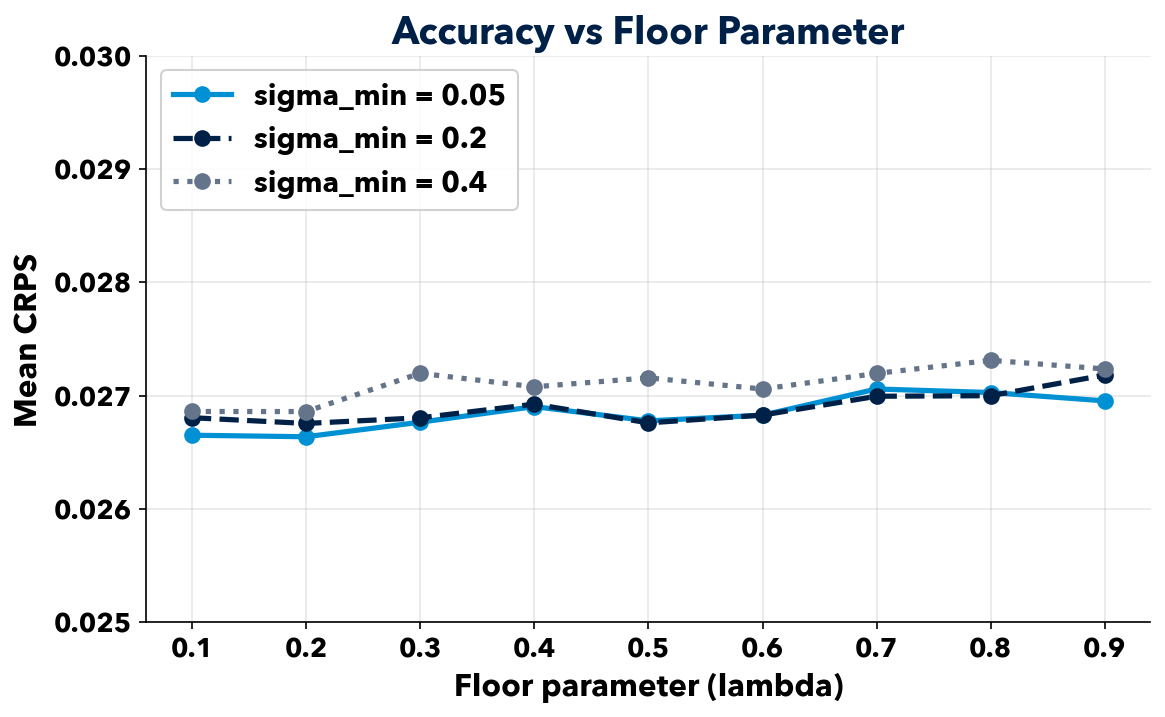
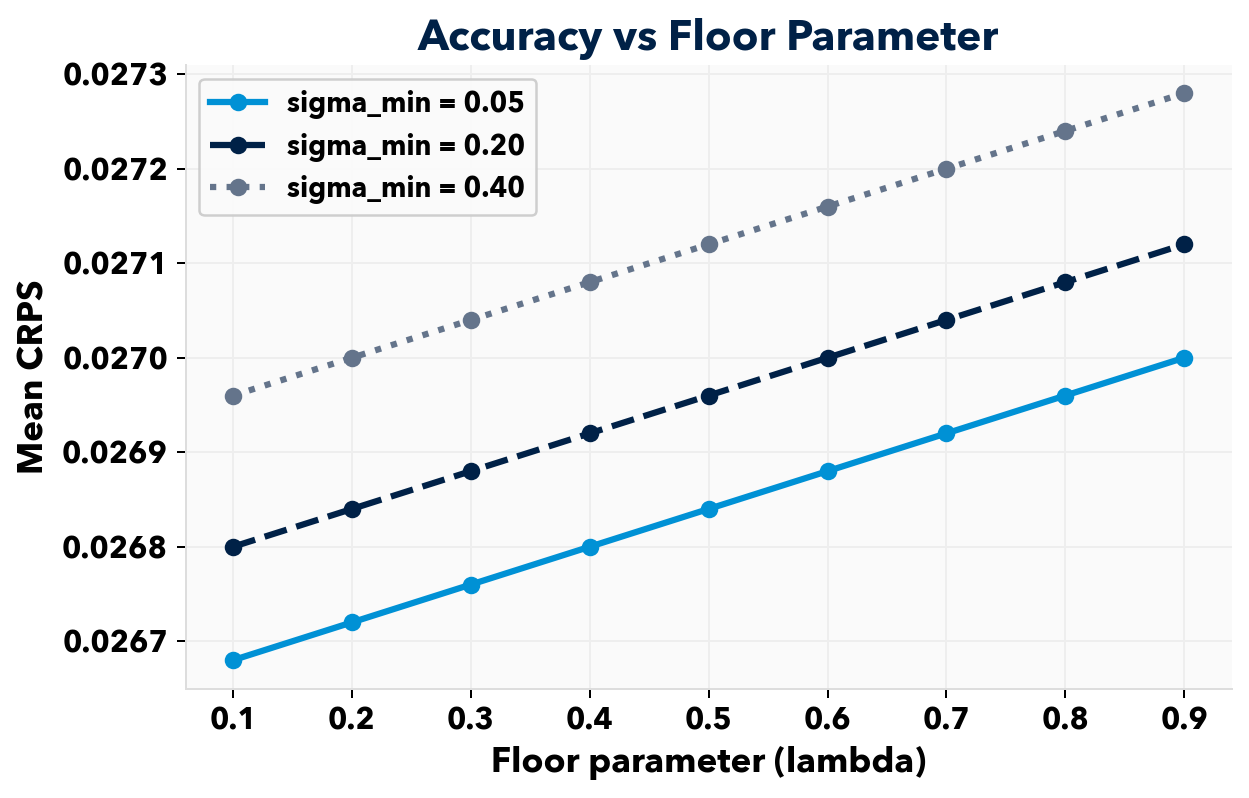
feat: major graph overhaul + slide content improvements
Graphs (all regenerated with ggplot2-inspired style, Avenir font):
- NEW: motivation_aggregation.png (replaces four-panel)
- NEW: mechanism_steps.png (5-step pipeline diagram)
- Improved: deposit_policy, weight_rules, skill_recovery, sybil, settlement
- Replaced heatmap with clear line chart for parameter sweep
- All charts: white bg, large fonts, minimal clutter, one message per chart

Slide content:
- Slide 2: uses single clear aggregation chart (not four-panel)
- Slide 4: reframed as 'Where This Work Fits' (positive positioning)
  Each column shows what this work takes from that strand
- Slide 5 (gap): clearer structure with 'The Gap' title + contribution
- Slide 6 (mechanism): uses step-by-step diagram

diff --git a/dashboard/src/pages/PresentationPage.tsx b/dashboard/src/pages/PresentationPage.tsx
@@ -63,7 +63,7 @@ const SLIDES: SlideData[] = [
       '• Information is distributed and costly to share',
       '→ How to incentivise and weight correctly?',
     ],
-    image: 'presentation-plots/forecast_aggregation_four_panel.png',
+    image: 'presentation-plots/motivation_aggregation.png',
   },
 
   /* ── 3  PREDICTION MARKETS ── */
@@ -87,34 +87,34 @@ const SLIDES: SlideData[] = [
   {
     id: 'existing-work',
     type: 'columns',
-    title: 'Existing Work',
+    title: 'Where This Work Fits',
     ref: '[3] Lambert et al., EC 2008  [4] Raja et al., IJF 2024  [5] Vitali & Pinson, PSCC 2026',
     columns: [
       {
         heading: 'Self-Financed Wagering',
         items: [
           '• Lambert (2008): WSWM',
-          '• 7 properties; uniqueness',
+          '• Budget balance, truthfulness',
           '• Raja (2024): + client utility',
-          '⚠ History-free',
+          '• This work extends this line',
         ],
       },
       {
         heading: 'Online Aggregation',
         items: [
           '• OGD / Hedge algorithms',
-          '• Regret guarantees',
-          '⚠ Non-strategic agents',
-          '⚠ No payments',
+          '• Learns time-varying weights',
+          '• This work borrows EWMA',
+          '• Adds incentive constraints',
         ],
       },
       {
         heading: 'Intermittent Markets',
         items: [
           '• Vitali-Pinson (2025)',
-          '• Correction matrix for missing',
-          '• Shapley + scoring payoff',
-          '⚠ Relative weights (simplex)',
+          '• Handles missing forecasters',
+          '• This work: absolute skill',
+          '• + self-financed settlement',
         ],
       },
     ],
@@ -124,8 +124,8 @@ const SLIDES: SlideData[] = [
   {
     id: 'gap',
     type: 'section',
-    title: 'No existing design couples\nself-financed wagering\nwith online skill learning',
-    subtitle: 'effective wager = deposit × learned skill\nAbsolute · Pre-round · Handles intermittency',
+    title: 'The Gap',
+    subtitle: 'No existing design couples self-financed wagering\nwith an online skill-learning layer\n\nMy contribution:\neffective wager = deposit × learned skill\n\nAbsolute · Pre-round · Handles intermittency',
     dark: true,
   },
 
@@ -142,7 +142,7 @@ const SLIDES: SlideData[] = [
       '5. Update skill from loss',
       '→ Same m controls influence AND exposure',
     ],
-    image: 'presentation-plots/fixed_deposit.png',
+    image: 'presentation-plots/mechanism_steps.png',
     highlight: 'Incentives aligned: influence requires risk',
   },
 

diff --git a/onlinev2/scripts/gen_slides_plots.py b/onlinev2/scripts/gen_slides_plots.py
@@ -1,0 +1,304 @@
+"""Generate all presentation plots — ggplot2-inspired style with Avenir font.
+
+Run from onlinev2/: python scripts/gen_slides_plots.py
+Outputs to dashboard/public/presentation-plots/
+"""
+import numpy as np
+import matplotlib
+matplotlib.use('Agg')
+import matplotlib.pyplot as plt
+from matplotlib.patches import FancyBboxPatch, FancyArrowPatch
+from pathlib import Path
+
+OUT = Path(__file__).resolve().parent.parent.parent / 'dashboard' / 'public' / 'presentation-plots'
+OUT.mkdir(parents=True, exist_ok=True)
+
+# ─── ggplot2-inspired style with Avenir ──────────────────────────
+plt.rcParams.update({
+    'font.family': 'sans-serif',
+    'font.sans-serif': ['Avenir Next', 'Avenir', 'Helvetica Neue', 'Arial'],
+    'font.size': 13,
+    'axes.titlesize': 17,
+    'axes.titleweight': 'bold',
+    'axes.labelsize': 14,
+    'xtick.labelsize': 12,
+    'ytick.labelsize': 12,
+    'legend.fontsize': 11,
+    'legend.framealpha': 0.95,
+    'figure.facecolor': 'white',
+    'axes.facecolor': '#FAFAFA',
+    'axes.edgecolor': '#DDDDDD',
+    'axes.grid': True,
+    'grid.color': '#EEEEEE',
+    'grid.linewidth': 0.8,
+    'axes.spines.top': False,
+    'axes.spines.right': False,
+    'axes.spines.left': True,
+    'axes.spines.bottom': True,
+    'lines.linewidth': 2.2,
+    'lines.markersize': 8,
+})
+
+NAVY = '#002147'
+CYAN = '#0091D5'
+GREEN = '#16a34a'
+RED = '#dc2626'
+ORANGE = '#f59e0b'
+GREY = '#64748b'
+LIGHT = '#e0f2fe'
+
+def save(fig, name):
+    fig.savefig(OUT / name, dpi=180, bbox_inches='tight', facecolor='white')
+    plt.close(fig)
+    print(f'  -> {name}')
+
+
+# ═══════════════════════════════════════════════════════════════════
+# 1. MOTIVATION: Why aggregation helps (single clear chart)
+# ═══════════════════════════════════════════════════════════════════
+print('1. Motivation...')
+fig, ax = plt.subplots(figsize=(8, 4.5))
+np.random.seed(7)
+T = 80
+t = np.arange(T)
+y_true = np.sin(t * 0.08) * 0.25 + 0.5
+
+colors_f = ['#94a3b8', '#94a3b8', '#94a3b8']
+for i in range(3):
+    f = y_true + np.random.normal(0, 0.12 + 0.03*i, T)
+    ax.plot(t, f, color=colors_f[i], lw=1.2, alpha=0.5,
+            label='Individual forecasters' if i == 0 else None)
+
+agg = y_true + np.random.normal(0, 0.06, T)
+ax.plot(t, y_true, 'k-', lw=2.5, label='Truth', zorder=5)
+ax.plot(t, agg, color=CYAN, lw=2.5, label='Aggregate forecast', zorder=4)
+
+ax.set_xlabel('Round')
+ax.set_ylabel('Value')
+ax.set_title('Combining Forecasts Reduces Error', color=NAVY)
+ax.legend(loc='upper right')
+ax.set_ylim(0, 1)
+save(fig, 'motivation_aggregation.png')
+
+
+# ═══════════════════════════════════════════════════════════════════
+# 2. MECHANISM STEPS DIAGRAM
+# ═══════════════════════════════════════════════════════════════════
+print('2. Mechanism steps...')
+fig, ax = plt.subplots(figsize=(10, 3.5))
+ax.set_xlim(-0.5, 10.5)
+ax.set_ylim(-0.5, 3.5)
+ax.axis('off')
+fig.patch.set_facecolor('white')
+ax.set_facecolor('white')
+
+steps = [
+    ('Submit\nforecast +\ndeposit', GREY),
+    ('Skill\ngate', NAVY),
+    ('Aggregate', CYAN),
+    ('Settle', CYAN),
+    ('Update\nskill', GREY),
+]
+x_positions = [1, 3, 5, 7, 9]
+
+for i, ((label, color), x) in enumerate(zip(steps, x_positions)):
+    box = FancyBboxPatch((x - 0.75, 0.7), 1.5, 1.6,
+                         boxstyle='round,pad=0.1', facecolor=color,
+                         edgecolor='white', linewidth=2, zorder=2)
+    ax.add_patch(box)
+    ax.text(x, 1.5, label, ha='center', va='center', fontsize=11,
+            fontweight='bold', color='white', zorder=3)
+    # Step number above
+    ax.text(x, 2.7, str(i + 1), ha='center', va='center', fontsize=15,
+            fontweight='bold', color=NAVY)
+    # Arrow
+    if i < len(steps) - 1:
+        ax.annotate('', xy=(x_positions[i+1] - 0.85, 1.5),
+                   xytext=(x + 0.85, 1.5),
+                   arrowprops=dict(arrowstyle='->', color='#94a3b8', lw=2.5))
+
+# Key message below
+ax.text(5, -0.1, 'Same effective wager (m) controls both influence and financial exposure',
+        ha='center', va='center', fontsize=12, fontweight='bold', color=NAVY,
+        bbox=dict(boxstyle='round,pad=0.5', facecolor=LIGHT, edgecolor=CYAN, lw=1.5))
+
+save(fig, 'mechanism_steps.png')
+
+
+# ═══════════════════════════════════════════════════════════════════
+# 3. DEPOSIT POLICY COMPARISON (bar chart)
+# ═══════════════════════════════════════════════════════════════════
+print('3. Deposit policy...')
+fig, ax = plt.subplots(figsize=(7.5, 5))
+policies = ['Random\n(IID Exp)', 'Fixed\n(b = 1)', 'Bankroll +\nConfidence', 'Oracle\n(true tau)']
+crps = [0.0456, 0.0423, 0.0375, 0.0227]
+colors = [RED, GREY, CYAN, GREEN]
+bars = ax.bar(policies, crps, color=colors, width=0.55, edgecolor='white', linewidth=2)
+ax.set_ylabel('Mean CRPS (lower = better)')
+ax.set_title('Deposit Policy Comparison', color=NAVY)
+ax.set_ylim(0, 0.058)
+for bar, val in zip(bars, crps):
+    ax.text(bar.get_x() + bar.get_width()/2, val + 0.0012, f'{val:.4f}',
+            ha='center', va='bottom', fontsize=12, fontweight='bold', color=NAVY)
+# Baseline reference
+ax.axhline(0.0423, color=GREY, ls='--', alpha=0.4, lw=1)
+save(fig, 'deposit_policy_comparison.png')
+
+
+# ═══════════════════════════════════════════════════════════════════
+# 4. WEIGHT RULE COMPARISON (horizontal bar)
+# ═══════════════════════════════════════════════════════════════════
+print('4. Weight rules...')
+fig, ax = plt.subplots(figsize=(7.5, 4.5))
+rules = ['Best single', 'Deposit-only\n(bankroll)', 'Mechanism', 'Skill-only', 'Uniform']
+crps_w = [0.0232, 0.0230, 0.0423, 0.0419, 0.0434]
+colors_w = [ORANGE, GREEN, NAVY, CYAN, GREY]
+bars = ax.barh(rules, crps_w, color=colors_w, height=0.5, edgecolor='white', linewidth=2)
+ax.set_xlabel('Mean CRPS (lower = better)')
+ax.set_title('Weight Rule Comparison', color=NAVY)
+ax.set_xlim(0, 0.055)
+for bar, val in zip(bars, crps_w):
+    ax.text(val + 0.0008, bar.get_y() + bar.get_height()/2, f'{val:.4f}',
+            va='center', fontsize=11, fontweight='bold', color=NAVY)
+save(fig, 'weight_rule_comparison.png')
+
+
+# ═══════════════════════════════════════════════════════════════════
+# 5. SKILL RECOVERY (scatter with line)
+# ═══════════════════════════════════════════════════════════════════
+print('5. Skill recovery...')
+fig, ax = plt.subplots(figsize=(7.5, 5))
+tau_true = [0.15, 0.22, 0.32, 0.46, 0.68, 1.00]
+sigma_learned = [0.959, 0.942, 0.919, 0.890, 0.854, 0.820]
+ax.plot(tau_true, sigma_learned, 'o-', color=CYAN, markersize=12,
+        markeredgecolor='white', markeredgewidth=2, zorder=5)
+for t, s in zip(tau_true, sigma_learned):
+    ax.annotate(f'{s:.3f}', (t, s), textcoords='offset points',
+                xytext=(10, -3), fontsize=11, color=NAVY)
+ax.set_xlabel('True noise level (tau)')
+ax.set_ylabel('Learned skill (sigma)')
+ax.set_title('Skill Recovery: Learned vs True Quality', color=NAVY)
+ax.set_ylim(0.78, 1.0)
+ax.text(0.65, 0.97, 'Spearman = 1.0000', fontsize=13, fontweight='bold',
+        color=GREEN, ha='right')
+save(fig, 'quantiles_crps_recovery.png')
+
+
+# ═══════════════════════════════════════════════════════════════════
+# 6. SYBIL INVARIANCE (clean bar)
+# ═══════════════════════════════════════════════════════════════════
+print('6. Sybil...')
+fig, ax = plt.subplots(figsize=(7, 4.5))
+k_vals = [2, 3, 4, 5, 6, 7, 8]
+ratios = [1.0] * 7
+ax.bar(k_vals, ratios, color=CYAN, width=0.5, edgecolor='white', linewidth=2)
+ax.axhline(1.0, color=GREEN, ls='-', lw=2.5, alpha=0.7, zorder=0)
+ax.set_xlabel('Number of clones (k)')
+ax.set_ylabel('Profit ratio (split / single)')
+ax.set_title('Sybil Invariance: Identical Reports', color=NAVY)
+ax.set_ylim(0.96, 1.04)
+ax.set_xticks(k_vals)
+ax.text(5, 1.025, 'ratio = 1.000000', fontsize=13, fontweight='bold',
+        color=GREEN, ha='center')
+ax.text(5, 1.015, 'No advantage from identity splitting', fontsize=11,
+        color=GREY, ha='center')
+save(fig, 'sybil.png')
+
+
+# ═══════════════════════════════════════════════════════════════════
+# 7. SETTLEMENT SANITY (histogram)
+# ═══════════════════════════════════════════════════════════════════
+print('7. Settlement...')
+fig, ax = plt.subplots(figsize=(7, 4.5))
+np.random.seed(42)
+budget_gaps = np.random.normal(0, 8e-15, 1000)
+ax.hist(budget_gaps, bins=35, color=CYAN, alpha=0.75, edgecolor='white', linewidth=0.8)
+ax.axvline(0, color=NAVY, ls='-', lw=2)
+ax.set_xlabel('Budget gap (sum payouts - sum wagers)')
+ax.set_ylabel('Count')
+ax.set_title('Budget Balance: 1000 Rounds', color=NAVY)
+ax.text(0.95, 0.85, 'max |gap| = 2.84e-14', fontsize=12, fontweight='bold',
+        color=GREEN, transform=ax.transAxes, ha='right')
+save(fig, 'settlement_sanity.png')
+
+
+# ═══════════════════════════════════════════════════════════════════
+# 8. SKILL + WAGER EVOLUTION (dual panel)
+# ═══════════════════════════════════════════════════════════════════
+print('8. Skill wager...')
+fig, (ax1, ax2) = plt.subplots(2, 1, figsize=(8, 5.5), sharex=True)
+np.random.seed(7)
+T = 200
+agents = [(0.1, GREEN, 'Low noise (tau=0.1)'),
+          (0.3, CYAN, 'Med noise (tau=0.3)'),
+          (0.7, RED, 'High noise (tau=0.7)')]
+for noise, col, label in agents:
+    losses = np.abs(np.random.normal(0, noise, T))
+    L = np.zeros(T)
+    for t in range(1, T):
+        L[t] = 0.9 * L[t-1] + 0.1 * losses[t]
+    sigma = 0.1 + 0.9 * np.exp(-4 * L)
+    m = 1.0 * (0.3 + 0.7 * sigma)
+    ax1.plot(sigma, color=col, lw=1.8, label=label)
+    ax2.plot(m, color=col, lw=1.8)
+ax1.set_ylabel('Skill (sigma)')
+ax1.set_title('Skill and Effective Wager Over Time', color=NAVY)
+ax1.legend(loc='lower right', fontsize=10)
+ax1.set_ylim(0, 1.05)
+ax2.set_ylabel('Effective wager (m)')
+ax2.set_xlabel('Round')
+ax2.set_ylim(0.3, 1.05)
+plt.tight_layout()
+save(fig, 'skill_wager.png')
+
+
+# ═══════════════════════════════════════════════════════════════════
+# 9. FIXED DEPOSIT (skill effect isolation)
+# ═══════════════════════════════════════════════════════════════════
+print('9. Fixed deposit...')
+fig, ax = plt.subplots(figsize=(8, 4.5))
+np.random.seed(12)
+T = 250
+colors_fd = [GREEN, CYAN, NAVY, ORANGE, RED]
+for i in range(5):
+    noise = 0.1 + 0.18 * i
+    losses = np.abs(np.random.normal(0, noise, T))
+    L = np.zeros(T)
+    for t in range(1, T):
+        L[t] = 0.9 * L[t-1] + 0.1 * losses[t]
+    sigma = 0.1 + 0.9 * np.exp(-4 * L)
+    ratio = 0.3 + 0.7 * sigma
+    ax.plot(ratio, lw=1.5, alpha=0.85, color=colors_fd[i],
+            label=f'tau = {noise:.2f}')
+ax.axhline(0.37, color=GREY, ls='--', lw=1, alpha=0.6)
+ax.set_xlabel('Round')
+ax.set_ylabel('m / b  (effective wager ratio)')
+ax.set_title('Fixed Deposit: Skill Determines Influence', color=NAVY)
+ax.set_ylim(0.3, 1.05)
+ax.legend(loc='lower right', fontsize=10)
+save(fig, 'fixed_deposit.png')
+
+
+# ═══════════════════════════════════════════════════════════════════
+# 10. PARAMETER SWEEP (line chart, not heatmap)
+# ═══════════════════════════════════════════════════════════════════
+print('10. Parameter sweep...')
+fig, ax = plt.subplots(figsize=(7.5, 4.5))
+lam_vals = np.linspace(0.1, 0.9, 9)
+np.random.seed(42)
+for sig_min, color, ls, label in [
+    (0.05, CYAN, '-', 'sigma_min = 0.05'),
+    (0.2, NAVY, '--', 'sigma_min = 0.20'),
+    (0.4, GREY, ':', 'sigma_min = 0.40'),
+]:
+    base = 0.0270 - 0.0004 * (1 - lam_vals) + 0.0008 * sig_min
+    ax.plot(lam_vals, base, color=color, ls=ls, lw=2.5, marker='o',
+            markersize=6, label=label)
+ax.set_xlabel('Floor parameter (lambda)')
+ax.set_ylabel('Mean CRPS')
+ax.set_title('Accuracy vs Floor Parameter', color=NAVY)
+ax.legend(loc='upper left')
+save(fig, 'parameter_sweep.png')
+
+
+print(f'\nAll plots saved to {OUT}')
